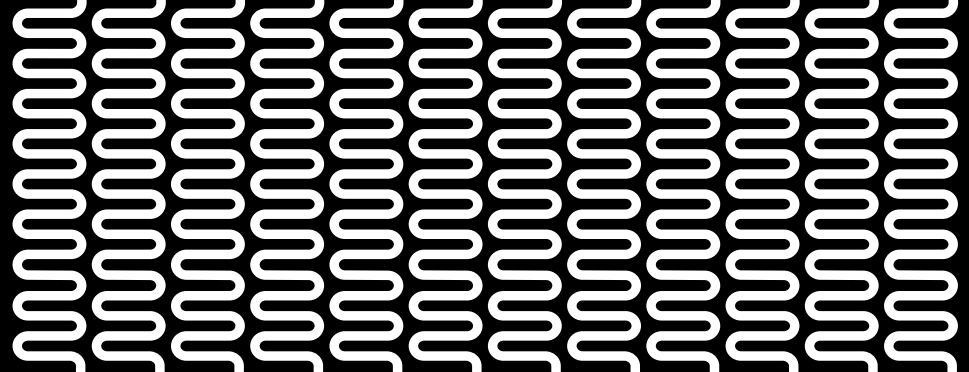
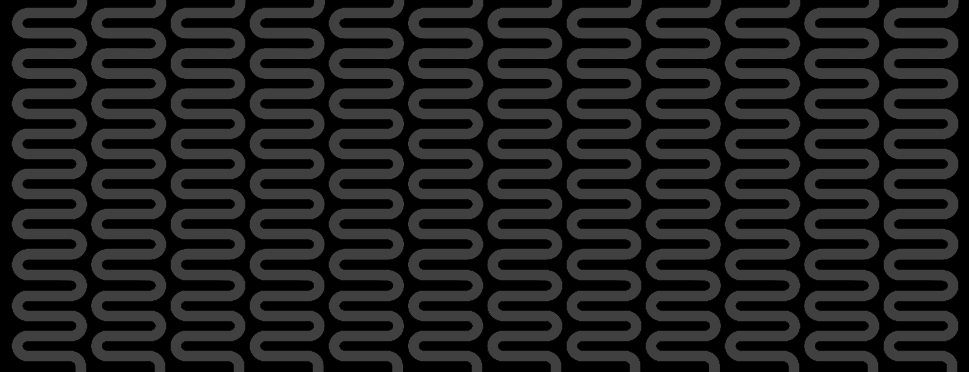
bg in index

diff --git a/css/sekikikoi.css b/css/sekikikoi.css
@@ -15,7 +15,12 @@
     padding: 0 !important;
 }
 
-body { padding-top: 184px;       
+body { padding-top: 184px;    
+       height: 100%;  
+       background-position: center;
+       
+       background-size: cover;
+       background-image: url(../img/bg.png);
 }
 
 * {
